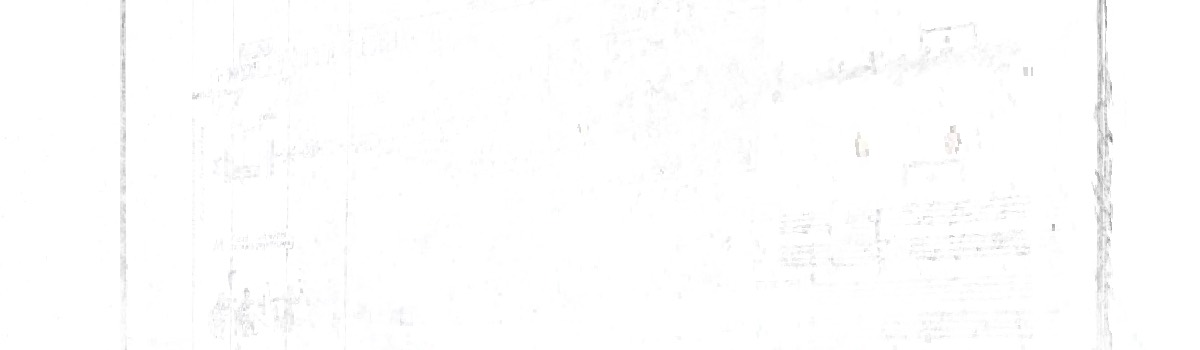
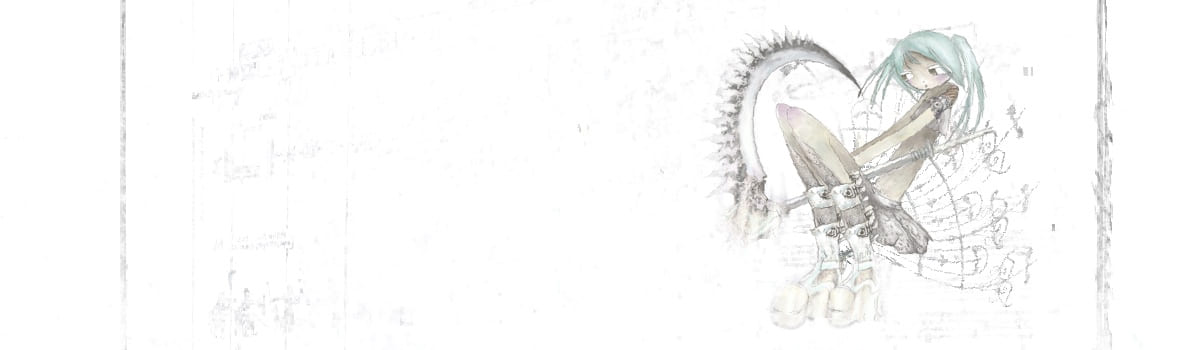
Redraw the email footer
New artwork for the closing strip, same 1200x350 as the piece it
replaces so it drops straight in. ART_VERSION goes to 3: Gmail's image
proxy caches by URL and ignores both the cache headers and a CloudFront
invalidation, so without the bump everyone who has been sent an email
keeps seeing the old drawing.

Shipped frontend first, which inverts the usual order. The version is
only a cache-buster on a fixed filename, so deploying the API first
would have let mail ask the proxy for ?v=3 while S3 still held the old
strip — and the proxy would have cached that under the new URL with no
way back except another bump. Written up in DEPLOYMENT.md.

Changed region(s): [[0.5858, 0.0857, 0.8633, 0.9143]]

diff --git a/server/src/services/email/templates.ts b/server/src/services/email/templates.ts
@@ -78,7 +78,7 @@ const WRAPPER_STYLE =
    through a proxy that caches them by URL and ignores both the cache headers
    and a CloudFront invalidation, so replacing the file alone leaves everyone
    who has already been sent an email looking at the old artwork. */
-const ART_VERSION = 2
+const ART_VERSION = 3
 
 /* Shipped with the site rather than held in the assets bucket: mail clients
    fetch it unauthenticated, and the assets bucket only ever hands out signed

diff --git a/DEPLOYMENT.md b/DEPLOYMENT.md
@@ -94,6 +94,22 @@ one — keeps showing the artwork the proxy fetched first. The templates carry a
 `server/src/services/email/templates.ts` whenever a piece is redrawn, or spend
 an evening convinced the upload silently failed.
 
+**An art change deploys frontend first — the opposite of everything else.** The
+usual order is API first, but `?v=N` is only a cache-buster on a fixed
+filename, so the new number does not point at a new object. Deploy the API
+first and any mail it sends in the gap asks Gmail's proxy for `?v=3` while S3
+is still holding the old drawing — which the proxy then caches under the new
+URL, permanently. There is no fix for that except bumping the version again.
+Upload the artwork, confirm it is actually being served, and only then deploy
+the API:
+
+```bash
+curl -s "https://coyvcastle.com/email-footer.jpg?v=3" -o /tmp/f.jpg
+cmp /tmp/f.jpg public/email-footer.jpg && echo "serving the new art"
+```
+
+Done that way on 2026-09-24 for the footer drawing, `ART_VERSION` 2 → 3.
+
 `VITE_*` variables are inlined at build time, not read at runtime. Changing
 `VITE_STRIPE_PUBLISHABLE_KEY` or `VITE_ADMIN_PATH` means a fresh `npm run build`
 and re-upload; setting them on the Lambda does nothing.
